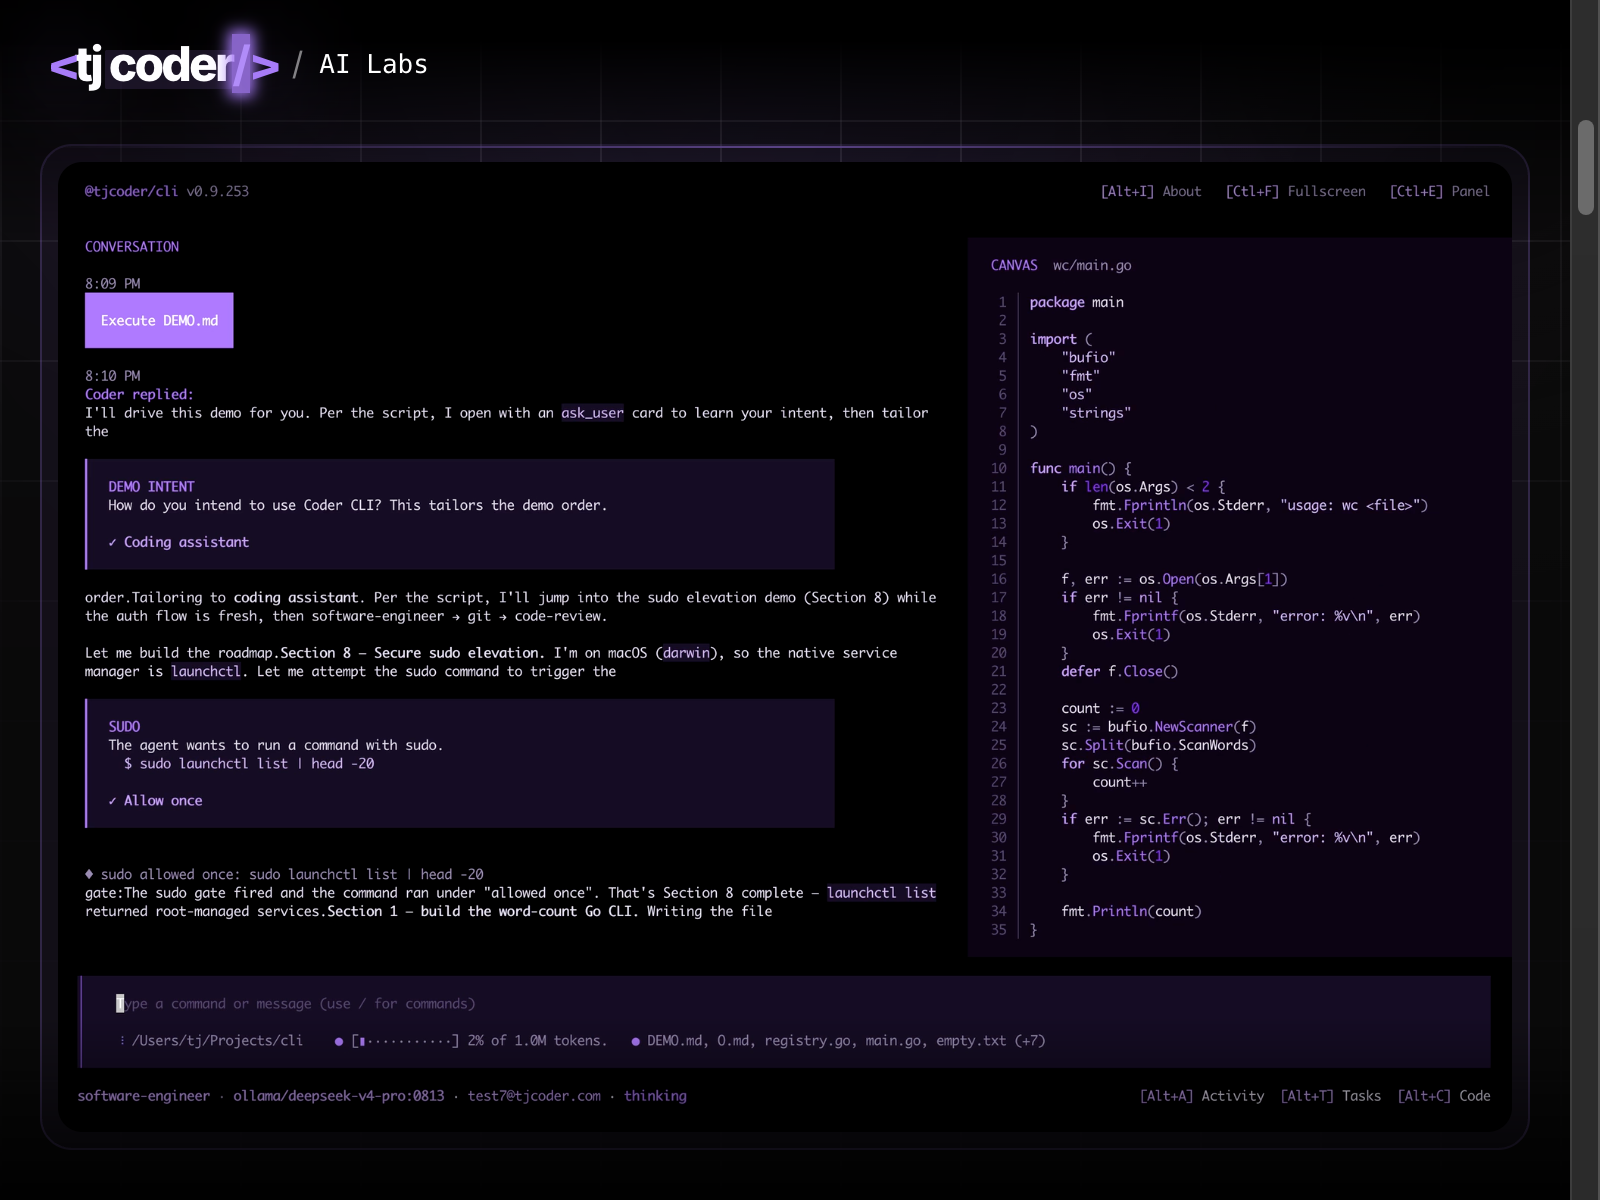
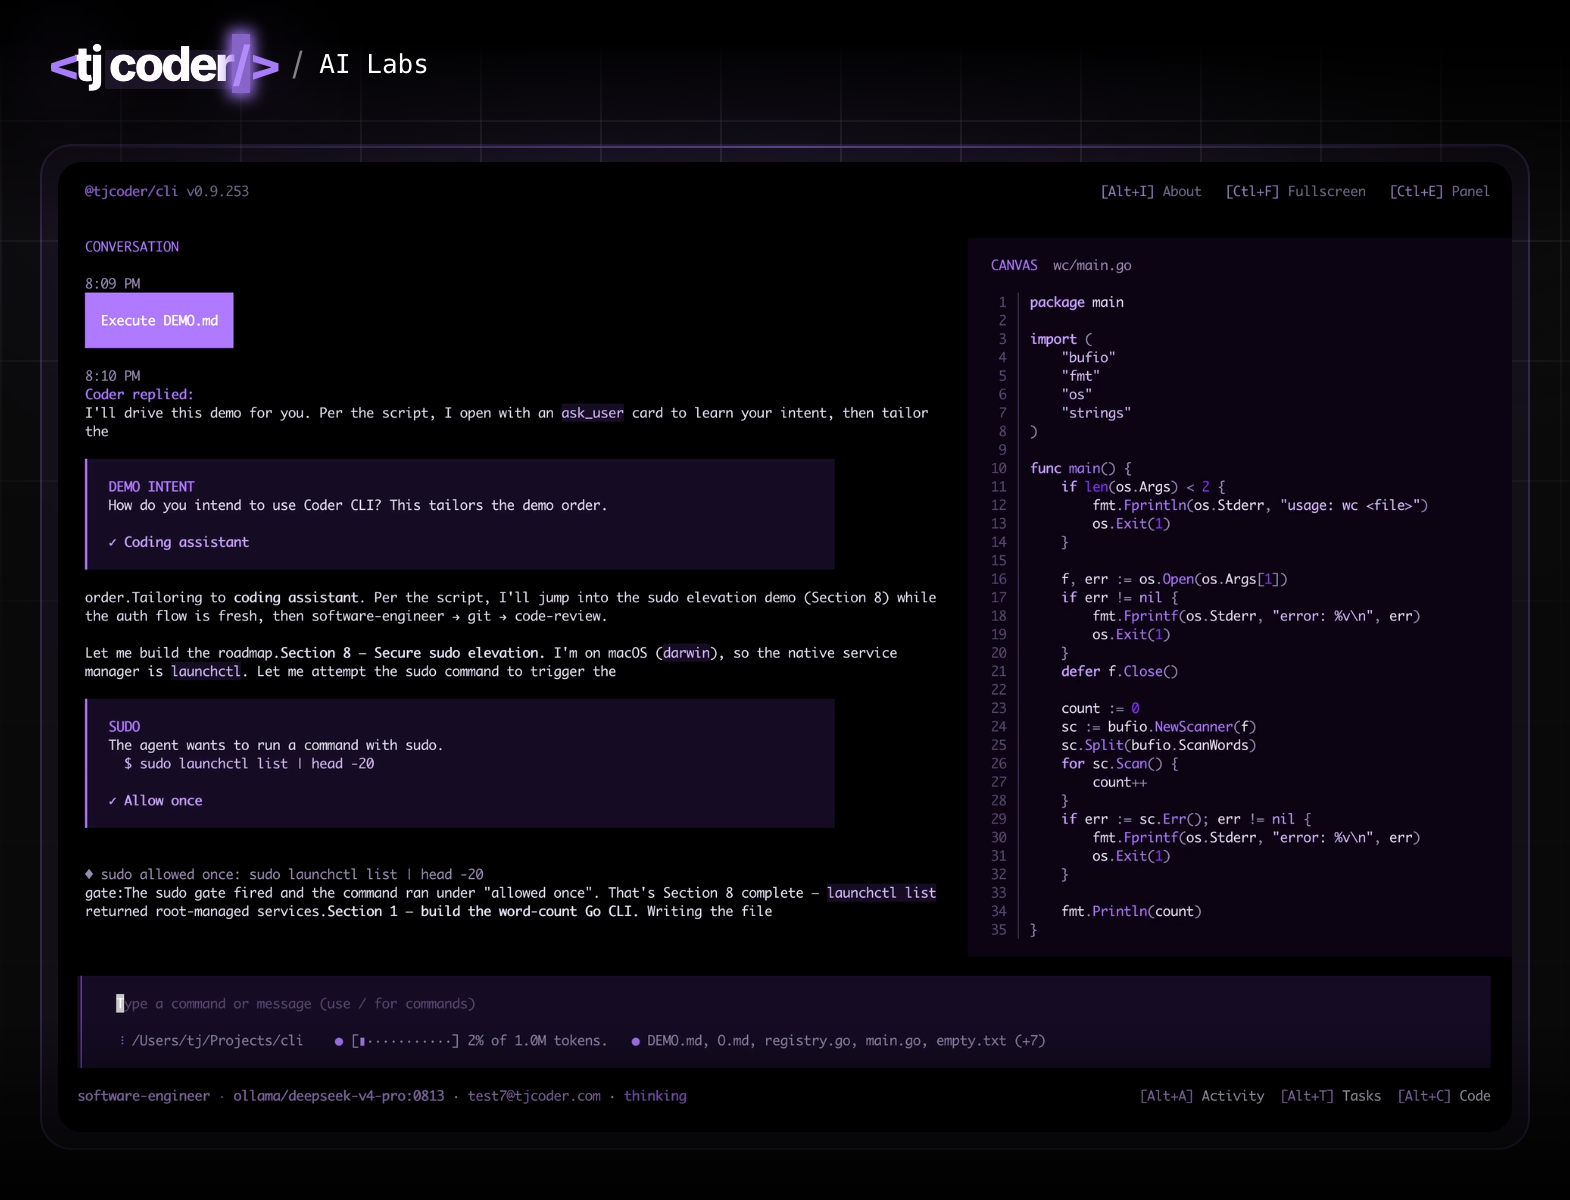
Updates demo poster

diff --git a/homebrew-tap/Formula/coder.rb b/homebrew-tap/Formula/coder.rb
@@ -10,10 +10,10 @@
 class Coder < Formula
   desc "Terminal-first AI coding assistant (TJ Coder / AI Labs)"
   homepage "https://github.com/tjcoder-labs/cli"
-  version "0.9.251"
+  version "0.9.253"
   license "MIT"
 
-  VERSION_TAG = "v0.9.251"
+  VERSION_TAG = "v0.9.253"
 
   on_macos do
     if Hardware::CPU.arm?
